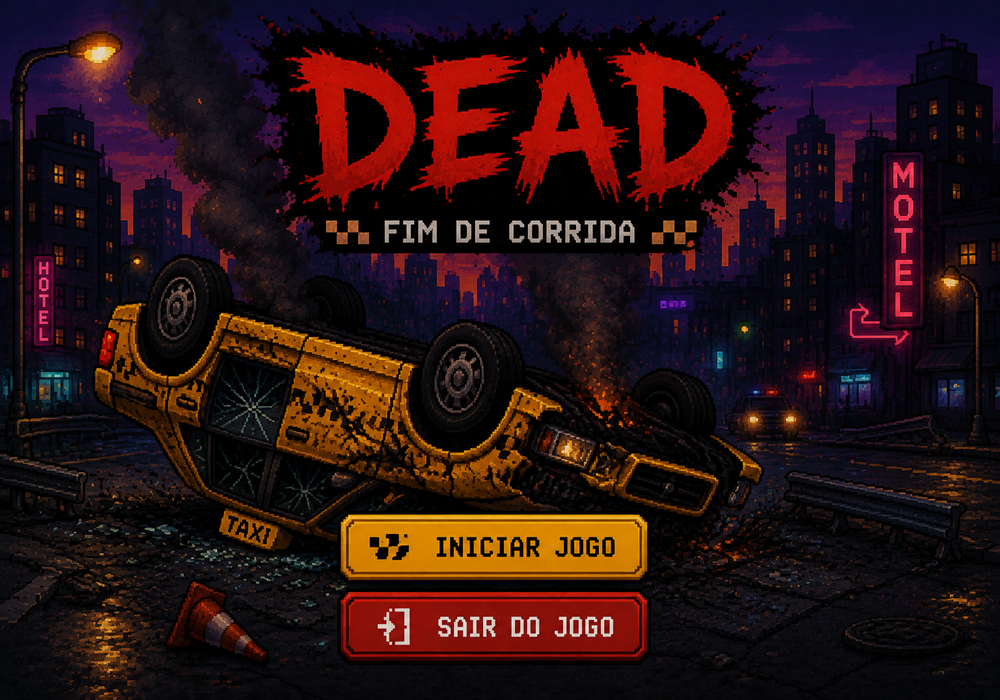
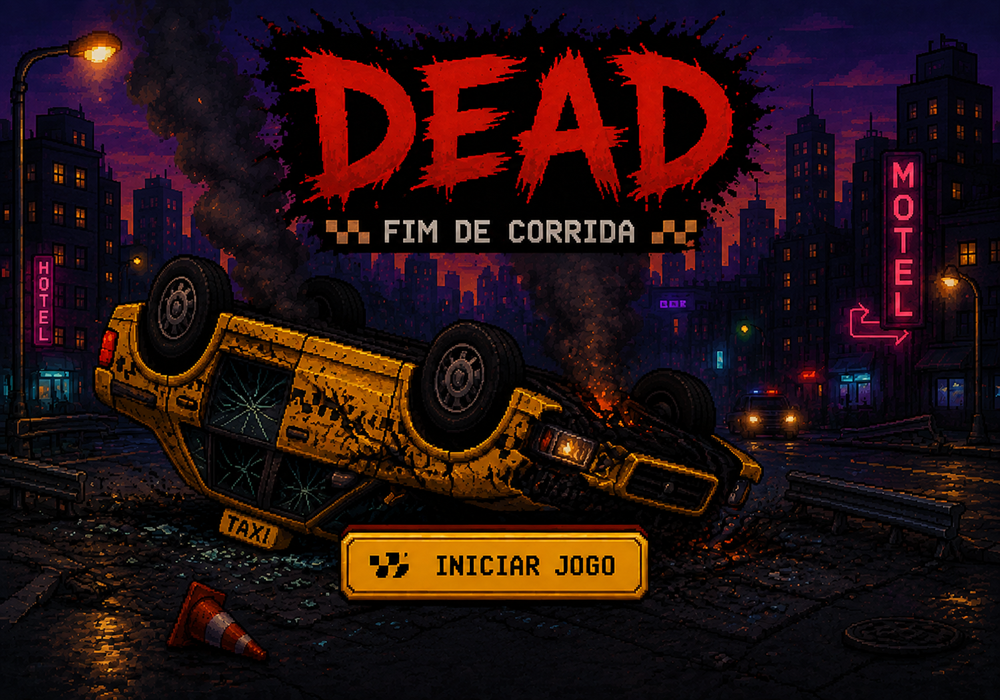
commit 3

diff --git a/main.py b/main.py
@@ -1,9 +1,15 @@
 import pygame
 import random
-import pyttsx3
 
-voz = pyttsx3.init()
-voz.setProperty("rate", 180)
+try:
+    import pyttsx3
+
+    voz = pyttsx3.init()
+    voz.setProperty("rate", 180)
+
+except:
+    voz = None
+
 
 from recursos.trabalho import inicializarBancoDeDados, limpar_tela, escreverDados, maior_pontuador
 from recursos.trabalho import gerar_passageiro
@@ -77,8 +83,9 @@ def jogar():
 
     pygame.mixer.music.play(-1)
     
-    voz.say(f"Bem vindo {nome}. Prepare-se para dirigir. Boa sorte!")
-    voz.runAndWait()
+    if voz:
+        voz.say(f"Bem vindo {nome}. Prepare-se para dirigir. Boa sorte!")
+        voz.runAndWait()
 
 
 
@@ -174,8 +181,9 @@ def jogar():
             pontos += 1
             
             if pontos == 20:
-             voz.say("Parabéns! Você sobreviveu ao trânsito até agora.")
-             voz.runAndWait()
+             if voz:
+              voz.say("Parabéns! Você sobreviveu ao trânsito até agora.")
+              voz.runAndWait()
 
 
             velocidadecarro += 1
@@ -230,8 +238,9 @@ def jogar():
 
 def dead(pontos):
     
-    voz.say(f"Fim de jogo {nome}. Até a próxima!")
-    voz.runAndWait()
+    if voz:
+     voz.say(f"Fim de jogo {nome}. Até a próxima!")
+     voz.runAndWait()
 
     pygame.mixer.music.stop()
     pygame.mixer.Sound.play(explosaoSound)
@@ -248,9 +257,6 @@ def dead(pontos):
                 if startButton.collidepoint(evento.pos):
                     larguraButtonStart = 140
                     alturaButtonStart  = 35
-                if quitButton.collidepoint(evento.pos):
-                    larguraButtonQuit = 140
-                    alturaButtonQuit  = 35
 
                 
             elif evento.type == pygame.MOUSEBUTTONUP:
@@ -260,11 +266,6 @@ def dead(pontos):
                     larguraButtonStart = 150
                     alturaButtonStart  = 40
                     jogar()
-                if quitButton.collidepoint(evento.pos):
-                    #pygame.mixer.music.play(-1)
-                    larguraButtonQuit = 150
-                    alturaButtonQuit  = 40
-                    quit()
             
         tela.fill(branco)
         tela.blit(fundoDead, (0,0))
@@ -277,7 +278,6 @@ def dead(pontos):
 
         # Botões invisíveis sobre a imagem
         startButton = pygame.Rect(370, 520, 270, 60)
-        quitButton = pygame.Rect(370, 600, 270, 60)
 
         pygame.display.update()
         relogio.tick(60)
@@ -285,60 +285,57 @@ def dead(pontos):
 
 
 def start():
-    larguraButtonStart = 150
-    alturaButtonStart  = 40
-    larguraButtonQuit = 150
-    alturaButtonQuit  = 40
-while True:
 
-    for evento in pygame.event.get():
+    while True:
 
-        if evento.type == pygame.QUIT:
-            pygame.quit()
-            quit()
+        for evento in pygame.event.get():
 
-        elif evento.type == pygame.MOUSEBUTTONUP:
-
-            if startButton.collidepoint(evento.pos):
-                jogar()
-
-            if quitButton.collidepoint(evento.pos):
+            if evento.type == pygame.QUIT:
                 pygame.quit()
                 quit()
 
-    # Desenha a tela
-    tela.fill(branco)
-    tela.blit(fundoStart, (0,0))
+            elif evento.type == pygame.MOUSEBUTTONUP:
 
-    # Retângulos para testar a posição
-    startButton = pygame.Rect(380, 360, 250, 65)
-    quitButton = pygame.Rect(380, 440, 250, 60)
+                if startButton.collidepoint(evento.pos):
+                    jogar()
 
-    # Nome do jogador
-# Sombra
-    textoNome = fonteMenu.render(f"Jogador: {nome}", True, preto)
-    tela.blit(textoNome, (12,525))
+                    pygame.quit()
+                    quit()
 
-# Texto
-    textoNome = fonteMenu.render(f"Jogador: {nome}", True, amarelo)
-    tela.blit(textoNome, (410, 525 ))
-# Instruções
-    texto1 = fonteMenu.render("Desvie dos carros para sobreviver.", True, amarelo)
-    tela.blit(texto1, (15, 15))
+        tela.fill(branco)
+        tela.blit(fundoStart, (0, 0))
 
-    texto2 = fonteMenu.render("Use as setas para mover o taxi.", True, amarelo)
-    tela.blit(texto2, (15, 35))
+        # Botões invisíveis
+        startButton = pygame.Rect(380, 360, 250, 65)
 
-# Melhor jogador
-    textoRecorde = fonteMenu.render(
-    f"The Best - {nome_maior} - {maior_pontos} - {dataJogada} - {horaJogada}",
-    True,
-    amarelo
-)
-    tela.blit(textoRecorde, (480, 15))
-    
-    pygame.display.update()
-    relogio.tick(60)
+        textoNome = fonteMenu.render(f"Jogador: {nome}", True, amarelo)
+        tela.blit(textoNome, (410, 525))
+
+        texto1 = fonteMenu.render(
+            "Desvie dos carros para sobreviver.",
+            True,
+            amarelo
+        )
+        tela.blit(texto1, (15, 15))
+
+        texto2 = fonteMenu.render(
+            "Use as setas para mover o taxi.",
+            True,
+            amarelo
+        )
+        tela.blit(texto2, (15, 35))
+
+        textoRecorde = fonteMenu.render(
+            f"The Best - {nome_maior} - {maior_pontos} - {dataJogada} - {horaJogada}",
+            True,
+            amarelo
+        )
+        tela.blit(textoRecorde, (480, 15))
+
+        pygame.display.update()
+        relogio.tick(60)
 
 
-    start()
+
+
+start()
